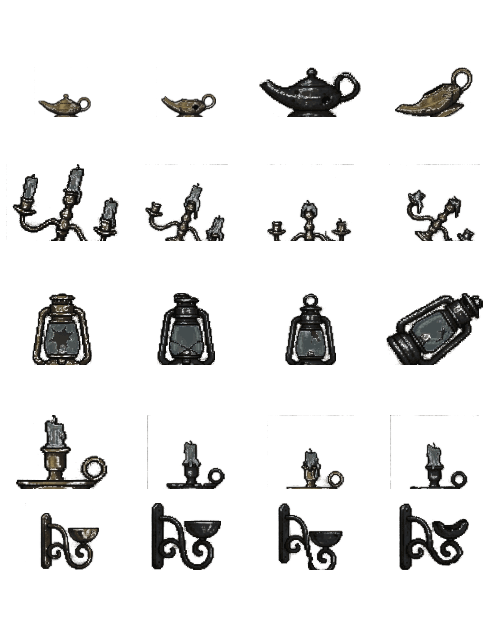
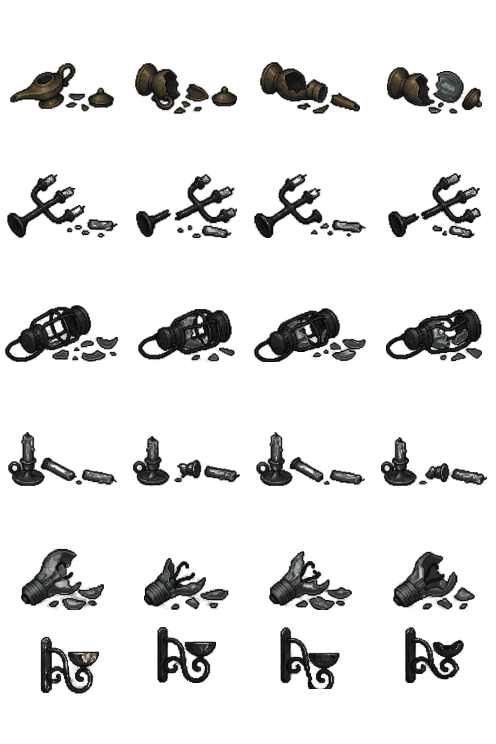
Lampes cassées au sol, mousse par taches, bilan de l'étage 12
- nouvelle planche d'objets brisés : quatre familles au sol et l'ampoule,
  ternies à la découpe pour rester dans les valeurs de la pierre
- la mousse ne pousse plus que là où le sol est humide (bruit lent) :
  53 % du sol reste sec, 23 % franchement couvert
- le dernier Seuil pose son bilan avant la fin : chiffres affichés et
  étoiles gardées pour l'étage 12

Claude-Session: https://claude.ai/code/session_01F5sPpARhAVgZ2gMvS4rkke

diff --git a/tests/paliers.test.ts b/tests/paliers.test.ts
@@ -22,7 +22,12 @@ import {
   traitsEtage,
 } from '../src/coeur/monde/paliers.js';
 import { avancer, creerPartie, PAS } from '../src/coeur/partie.js';
-import { lancerLeBilan, partEclairee, sansFaute } from '../src/coeur/regles/bilan.js';
+import {
+  DUREE_BILAN,
+  lancerLeBilan,
+  partEclairee,
+  sansFaute,
+} from '../src/coeur/regles/bilan.js';
 import { DUREE_FIN, tempsFin } from '../src/coeur/regles/fin.js';
 import { SOUFFLE_MAX } from '../src/coeur/regles/joueur.js';
 import { eclaireParAutrui } from '../src/coeur/regles/lumiere.js';
@@ -327,8 +332,29 @@ describe('la fin (étage 12)', () => {
     p.joueur.x = p.zone.sortie.x;
     p.joueur.y = p.zone.sortie.y;
     avancer(p, PAS);
-    expect(p.fin, 'il reste').not.toBe(null);
     expect(p.vidange, 'il ne franchit pas').toBe(null);
+    // le bilan d'abord, comme aux onze autres — puis la fin, et pas la cage
+    expect(p.bilan?.etage).toBe(DERNIER_ETAGE);
+    for (let i = 0; i < Math.round((DUREE_BILAN + 0.5) / PAS); i++) avancer(p, PAS);
+    expect(p.bilan).toBe(null);
+    expect(p.fin, 'il reste').not.toBe(null);
+    expect(p.puits, 'aucune montée').toBe(null);
+  });
+
+  it('pose le bilan du douzième : ses chiffres, et l’étage d’après pour la progression', () => {
+    // Le bug : la fin court-circuitait le bilan, et l'étage 12 restait sans
+    // chiffres ni étoiles dans l'Histoire.
+    const p = creerPartie({ grain: 'FIN', etage: DERNIER_ETAGE });
+    p.zone.sortie.lumieres = p.zone.requis;
+    p.joueur.x = p.zone.sortie.x;
+    p.joueur.y = p.zone.sortie.y;
+    avancer(p, PAS);
+    expect(p.bilan).toMatchObject({
+      etage: DERNIER_ETAGE,
+      lumieres: p.zone.requis,
+      suivante: DERNIER_ETAGE + 1,
+    });
+    expect(p.bilan?.lumieresTotal).toBeGreaterThan(0);
   });
 
   it('passe par ses cinq temps, dans l’ordre, sans en sauter un', () => {
@@ -351,7 +377,8 @@ describe('la fin (étage 12)', () => {
     p.joueur.x = p.zone.sortie.x;
     p.joueur.y = p.zone.sortie.y;
     avancer(p, PAS);
-    for (let i = 0; i < Math.round((DUREE_FIN + 1) / PAS); i++) avancer(p, PAS);
+    for (let i = 0; i < Math.round((DUREE_BILAN + DUREE_FIN + 1) / PAS); i++)
+      avancer(p, PAS);
     expect(p.fin).toBe(null);
     expect(p.finVue).toBe(true);
     expect(p.numeroZone).toBe(1);

diff --git a/src/rendu/mousse.ts b/src/rendu/mousse.ts
@@ -47,6 +47,22 @@ const TEINTES = 6;
 const MAILLE = 1.45;
 const MAILLE_FINE = 0.55;
 
+/**
+ * LES ZONES HUMIDES. Première version : la mousse suivait TOUS les murs, et au
+ * jeu il y en avait partout — un liseré vert autour de chaque pierre, qui ne
+ * disait plus rien parce qu'il était constant. De la mousse, il y en a là où
+ * l'eau suinte, et pas ailleurs.
+ *
+ * Un troisième bruit, très lent (des taches de `MAILLE_HUMIDE` cases), décide
+ * donc où le sol est humide. Sous `SEC`, rien ne pousse, même contre la pierre ;
+ * au-delà de `SEC + TRANSITION`, elle s'étale pleinement. Ce bruit prend sa
+ * valeur médiane autour de 0,5 : environ la moitié des murs restent nus, un
+ * cinquième sont franchement couverts, le reste entre les deux.
+ */
+const MAILLE_HUMIDE = 4.5;
+const SEC = 0.52;
+const TRANSITION = 0.16;
+
 const lisse = (t: number): number => t * t * (3 - 2 * t);
 
 /** Un bruit de valeur, continu : des nombres tirés aux nœuds d'une grille,
@@ -163,8 +179,12 @@ export function semerMousse(
         const px = cx + u;
         const py = cy + v;
         const n = 0.66 * bruit(px, py, MAILLE, 31) + 0.34 * bruit(px, py, MAILLE_FINE, 37);
-        // forte au pied du mur (f²), rongée par les taches (n)
-        const h = f * f * (0.15 + 1.35 * n);
+        const humide = lisse(
+          Math.max(0, Math.min(1, (bruit(px, py, MAILLE_HUMIDE, 41) - SEC) / TRANSITION)),
+        );
+        if (humide <= 0) continue;
+        // forte au pied du mur (f²), là où c'est humide, rongée par les taches (n)
+        const h = f * f * humide * (0.35 + 1.1 * n);
         const garde = lisse(Math.max(0, Math.min(1, (h - 0.1) / 0.55)));
         if ((b & 0xffff) / 65536 >= garde) continue;
         const r = 0.55 + (((b >>> 16) & 0xff) / 256) * 1.5;

diff --git a/src/coeur/regles/monde.ts b/src/coeur/regles/monde.ts
@@ -33,7 +33,7 @@ import { emettre, onde } from '../particules.js';
 import { ETEINTS, REPLIQUES } from '../textes.js';
 import type { Partie, Perso, Point, Zone } from '../types.js';
 import { montrerToast, murmurer } from '../voix.js';
-import { lancerLaFin } from './fin.js';
+import { lancerLeBilan } from './bilan.js';
 import { aLAbri, estEclaire, prochedUneBraise } from './lumiere.js';
 import { eteindre, gagnerEclat, paniquer, ramasser } from './progression.js';
 import { ouvrirLeSeuil } from './seuil.js';
@@ -562,7 +562,14 @@ export function majRegles(partie: Partie, dt: number): void {
     // fois avant — et cette fois le portail en demande plus. Il ne reste que
     // lui. (Une fois la fin vue, le Puits sans fin recommence à s'ouvrir
     // normalement : on redescend pour jouer, plus pour finir.)
-    if (partie.numeroZone === DERNIER_ETAGE && !partie.finVue) lancerLaFin(partie);
+    //
+    // LE BILAN D'ABORD, la fin ensuite. Le douzième sautait droit à la fin, et
+    // son bilan n'était jamais posé : ni chiffres à l'écran, ni trace gardée,
+    // donc pas d'étoiles pour le seul étage qui en méritait le plus. Le bilan
+    // le montre vu de haut comme les onze autres, et c'est lui qui passe la
+    // main à la fin (`bilan.ts`).
+    if (partie.numeroZone === DERNIER_ETAGE && !partie.finVue)
+      lancerLeBilan(partie, DERNIER_ETAGE + 1);
     else ouvrirLeSeuil(partie);
   }
 }

diff --git a/src/coeur/regles/bilan.ts b/src/coeur/regles/bilan.ts
@@ -12,7 +12,9 @@
 
 import { CASE } from '../dimensions.js';
 import { EMOTIONS } from '../formes.js';
+import { DERNIER_ETAGE } from '../monde/paliers.js';
 import type { Partie, Zone } from '../types.js';
+import { lancerLaFin } from './fin.js';
 import { lancerLePuits } from './puits.js';
 
 /** Le temps que le bilan s'installe avant qu'on puisse le passer. */
@@ -103,7 +105,9 @@ export function majBilan(partie: Partie, dt: number): void {
   if (bilan.t < DUREE_BILAN && !presse) return;
   const suivante = bilan.suivante;
   partie.bilan = null;
-  lancerLePuits(partie, suivante);
+  // Au bout du douzième, pas de cage d'escalier : la fin, la première fois.
+  if (bilan.etage === DERNIER_ETAGE && !partie.finVue) lancerLaFin(partie);
+  else lancerLePuits(partie, suivante);
 }
 
 /** Un étage parfait : tout éclairé, toutes les lumières, jamais pris. */

diff --git a/src/rendu/sol.ts b/src/rendu/sol.ts
@@ -168,13 +168,15 @@ function poserGarnitures(
           // premières familles du barème.
           const f = HASARD(cx, cy, 12);
           const famille =
-            f < 0.3
+            f < 0.25
               ? d.lanterne
-              : f < 0.56
+              : f < 0.46
                 ? d.lampeHuile
-                : f < 0.8
+                : f < 0.65
                   ? d.bougeoir
-                  : d.chandelier;
+                  : f < 0.83
+                    ? d.chandelier
+                    : d.ampoule;
           poser(famille, variantePosee(cx, cy, 9), cx, cy);
         }
       }

diff --git a/tests/semis.test.ts b/tests/semis.test.ts
@@ -72,9 +72,9 @@ describe('le semis du décor', () => {
   });
 
   it('garde les familles réparties sur les cases retenues', () => {
-    // le barème de `sol.ts` : 30 % / 26 % / 24 % / 20 %
-    const bornes = [0.3, 0.56, 0.8, 1];
-    const fam = [0, 0, 0, 0];
+    // le barème de `sol.ts` : 25 % / 21 % / 19 % / 18 % / 17 %
+    const bornes = [0.25, 0.46, 0.65, 0.83, 1];
+    const fam = [0, 0, 0, 0, 0];
     let retenues = 0;
     surLaGrille((cx, cy) => {
       if (hasard(cx, cy, 8) >= 0.13) return;

diff --git a/src/rendu/decors.ts b/src/rendu/decors.ts
@@ -33,7 +33,14 @@ const FEUILLE = 'decors.png';
 
 /** Les familles, dans l'ordre des rangées de la feuille. `outils/decors.mjs`
  *  écrit exactement cet ordre — si l'un bouge, l'autre suit. */
-const FAMILLES = ['lampeHuile', 'chandelier', 'lanterne', 'bougeoir', 'applique'] as const;
+const FAMILLES = [
+  'lampeHuile',
+  'chandelier',
+  'lanterne',
+  'bougeoir',
+  'ampoule',
+  'applique',
+] as const;
 
 export type Famille = (typeof FAMILLES)[number];
 
